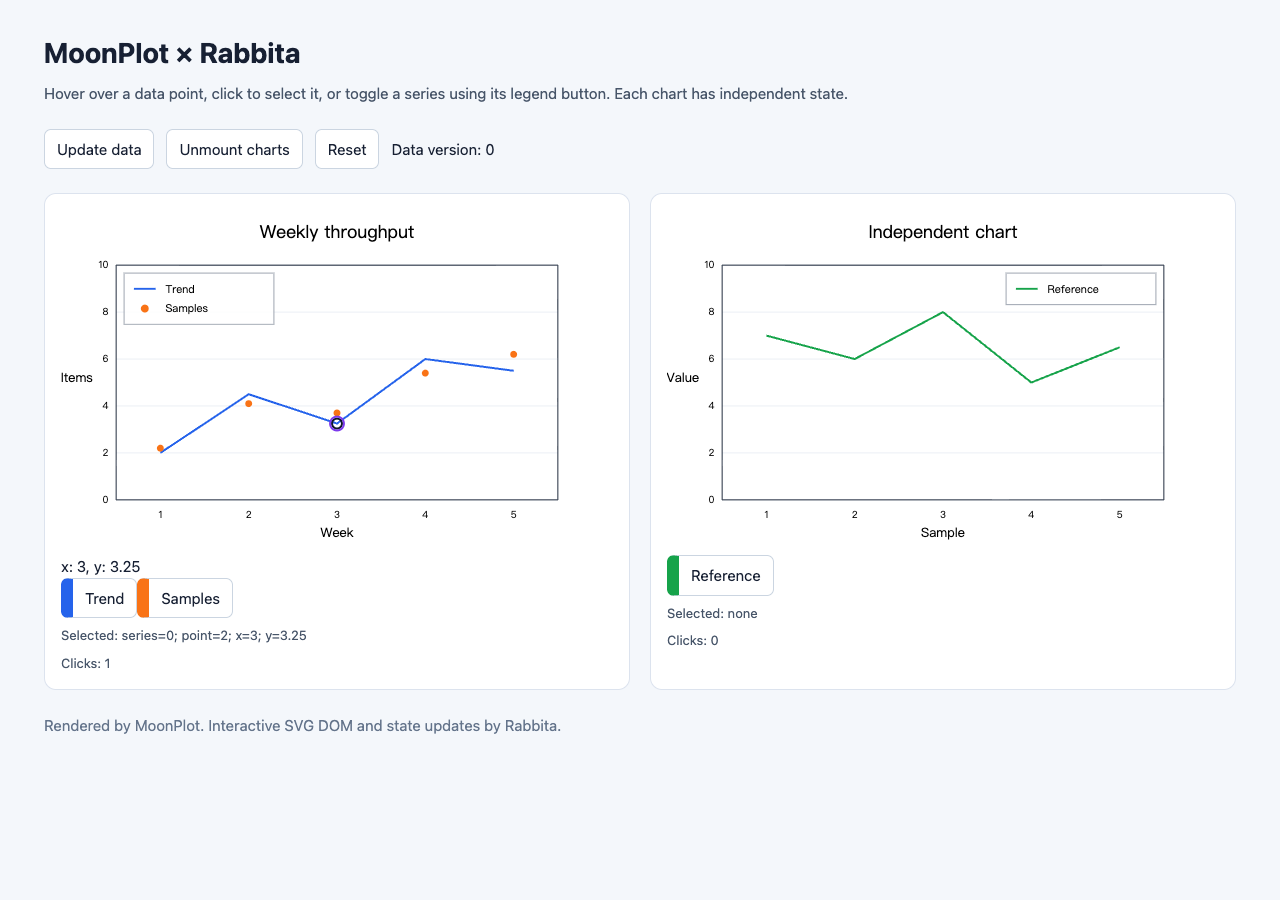
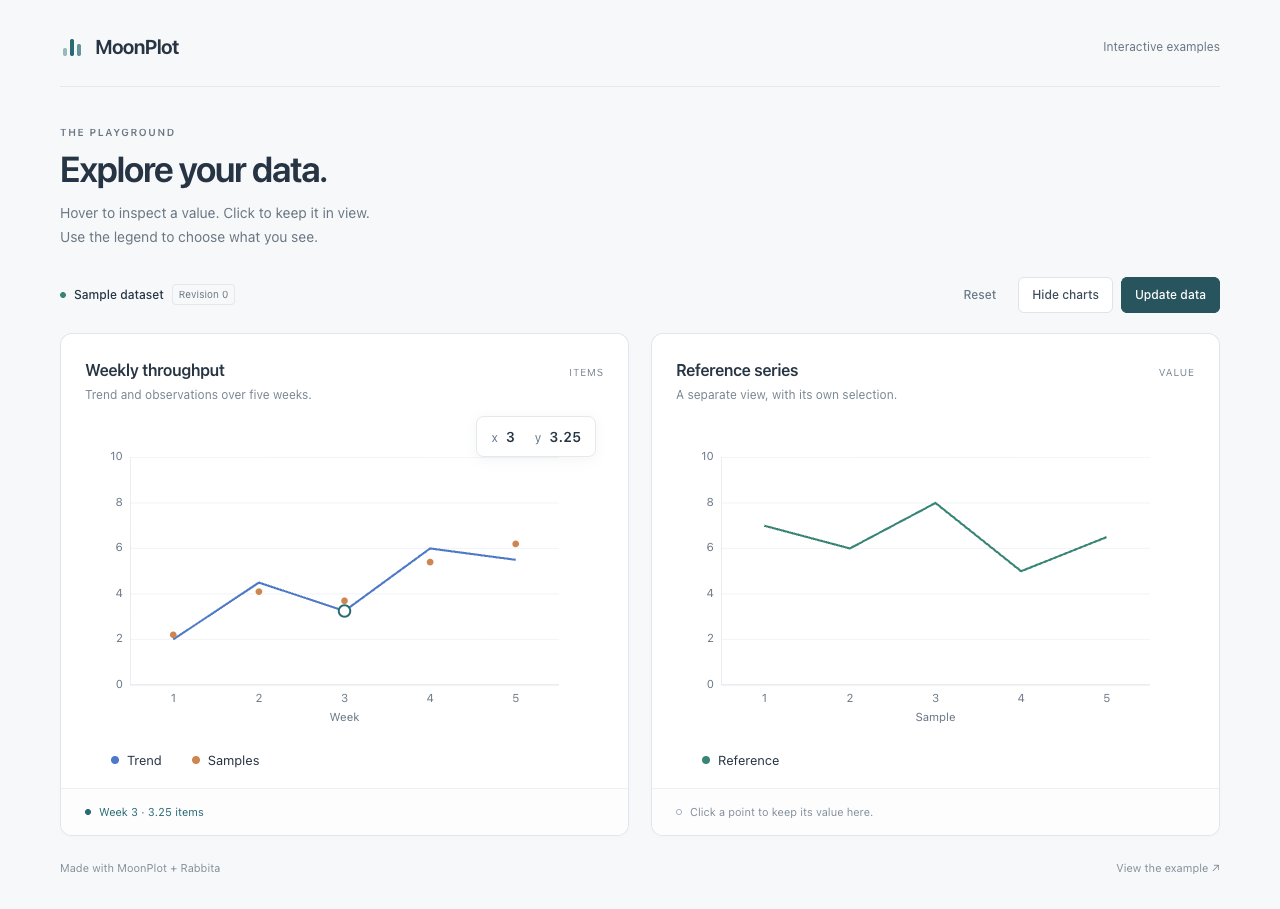
docs: refresh interactive preview and component styling guide

diff --git a/docs/MIGRATION_STATUS.md b/docs/MIGRATION_STATUS.md
@@ -42,8 +42,21 @@
 - [x] 最终文档f1aac73已正常push；远端SHA与本地交付HEAD一致，GitHub八个文件blob/size均匹配。
 - [x] 工作区交付文件已提交；本页最终交接随后作为独立检查点提交并正常同步。
 
+## 当前 UI 整理切片
+
+- 用户反馈交互示例UI细节难看，本轮优先整理界面，暂停建议中的SVG资源ID切片。
+- [x] 统一品牌/标题/工具栏/图表卡片，移除重复SVG图例与可见调试计数、索引。
+- [x] adapter新增独立moonplot.css，图例为轻量色点按钮；悬停浮层不再改变卡片高度。
+- [x] 选中摘要改为实际周次/数值；示例通过既有API柔化网格/轴线，无核心renderer改动。
+- [x] 首轮check/build通过，Chrome11项通过，0页面错误；桌面/375px已看实际截图。
+- [x] 最终info/fmt、checkJS/build通过，adapter7/7，Chrome11/11且0页面错误；桌面/375px截图已视觉复核。
+- [x] 根核心及公开mbti均未变化；assets展示图和组件CSS接入说明已同步。
+- [x] 界面与浏览器验收代码已独立commit；展示图与说明随文档提交交付。
+- [ ] 正常push并核远端，结束本次UI整理。
+
 ## 精确下一动作
 
+当前UI已完成实现与验收，下一分批提交并正常push、核远端。G2.1原有实现与验收保留。
 G2.1实现、验收、文档、提交和远端文件核查均已完成，无未处理失败。
 本片交付为05e9c20、1d4de2a、f1aac73；完整交付HEAD为
 f1aac7335d7e146e5d03bf1c8e77061aaec0909d，远端已核相同。
@@ -53,6 +66,8 @@ f1aac7335d7e146e5d03bf1c8e77061aaec0909d，远端已核相同。
 
 ## 证据、会话与运行方式
 
+- UI首浏览器75004、最终3504、最终Moon流程88111均terminal0；新旧浏览器HTTP/Chrome均已finally关闭。
+- UI日志在G2-2026-10-24/ui-*.log；当前report/demo/mobile截图在G2-ui-acceptance/。
 - 本轮基线：cbc7358aea2e5b005a1bb48bf088ed46e4f00e54；master跟踪origin/master，远端SSH。
 - SSH push43148 terminal0；GitHub API八文件40301 terminal0，结果github-delivery.json。
 - 核心中央77401 terminal0；adapter最终19989 terminal0；最终全流程26231 terminal0；

diff --git a/docs/RABBITA_DOM.md b/docs/RABBITA_DOM.md
@@ -94,11 +94,12 @@ workspace 解析 x `0.5.1`、async `0.22.4`、moonback `0.8.5`，均按安装元
 | adapter JS | check 通过，**7/7** 测试；示例 build 通过，只有既有依赖警告 |
 | 最终接口与格式 | 根和 adapter 的 info/fmt 通过，新增/变更 mbti 已审，UI 依赖隔离 |
 | 原有静态示例 | main/preview/gallery native 全部 exit 0；preview 与 gallery 的已保存 SVG 均逐字相同 |
-| 真实 Chrome 155 | 下列 **9 项**通过，页面错误 **0**；桌面与窄视口截图已视觉检查 |
+| 真实 Chrome 155 | 下列 **11 项**通过，页面错误 **0**；桌面与窄视口截图已视觉检查 |
 
 浏览器检查覆盖真实 SVG namespace/小数几何、悬停与点击更新状态、双图隔离、图例与命中同步、
 数据更新后的新数值、三次移除/挂载不重复发事件、滚动及外层 padding/border、
-letterbox 空白区拒绝和响应式 CSS 命中半径。运行使用真实鼠标事件，结束时关闭其临时 HTTP 服务和浏览器。
+letterbox 空白区拒绝和响应式 CSS 命中半径；UI整理后额外检查悬停不移动图例/卡片、375px无横向溢出，
+图例同时覆盖键盘和鼠标操作。运行使用真实鼠标事件，结束时关闭其临时 HTTP 服务和浏览器。
 
 核心定向命令（仓库根目录）：
 
@@ -113,7 +114,8 @@ moon test drawing backend/svg scene/drawing_wbtest.mbt \
 
 浏览器命令与 Playwright 安装步骤见 [adapter 验证说明](../adapters/rabbita/README.md#verification)。
 本地详细日志保存在 `.moonagent/checkpoints/G2-2026-10-24/`；
-浏览器 report.json、demo.png、mobile.png 在 `.moonagent/checkpoints/G2-browser-acceptance/`。
+最初浏览器 report.json、demo.png、mobile.png 在 `.moonagent/checkpoints/G2-browser-acceptance/`；
+UI整理后的当前11项结果与截图在 `.moonagent/checkpoints/G2-ui-acceptance/`。
 这些忽略目录不随仓库分发，公开命令可复现。没有把历史两万余项全套测试称为本轮结果。
 
 G2.1 已闭合首个交互场景。后续可按用户需求补键盘/触摸、缩放平移、更多图表命中、

diff --git a/adapters/rabbita/README.md b/adapters/rabbita/README.md
@@ -63,6 +63,19 @@ The [complete example](cmd/demo/main.mbt) shows the model, update and view toget
 Refresh or clear selected/hovered snapshots when the data changes, as the example does.
 Use a distinct `id` for each chart. Legend keys belong to your application.
 
+Load the [component stylesheet](moonplot.css) in your application shell for the
+compact legend buttons and floating hover inspector:
+
+```html
+<link rel="stylesheet" href="/path/to/moonplot.css">
+```
+
+Copy or serve this file from your application's assets. Its rules are scoped to
+`.moonplot`; `demo.css` only styles this example page. Override
+`--moonplot-text`, `--moonplot-muted`, `--moonplot-border`, and `--moonplot-accent`
+on the component to match your theme. The inspector stays in the viewport's
+upper-right corner and does not resize the chart on hover.
+
 `HitPoint` contains panel, artist and original point indices, numeric data coordinates, and intrinsic SVG coordinates.
 Indices identify the displayed frame's ordering; they are not persistent identifiers across artist or data reordering.
 Line step vertices, missing samples and extra paint passes do not renumber the original data points.
@@ -111,6 +124,7 @@ PLAYWRIGHT_MODULE="$PWD/.moonagent/browser-tools/node_modules/playwright" \
 The default browser channel is installed Google Chrome. Set `BROWSER_CHANNEL=bundled` to use Playwright's
 installed Chromium instead. Browser binaries may need separate installation in a fresh environment.
 `MOONPLOT_BROWSER_OUTPUT` overrides the output directory for screenshots and the JSON report.
-The actual acceptance run used Chrome 155 and passed nine interaction/layout checks with no page errors.
+The current acceptance run used Chrome 155 and passed 11 interaction/layout checks with no page errors,
+including keyboard legend toggles, stable hover layout and a 375px phone viewport.
 
 Licensed under the repository's [Apache 2.0 license](../../LICENSE).
